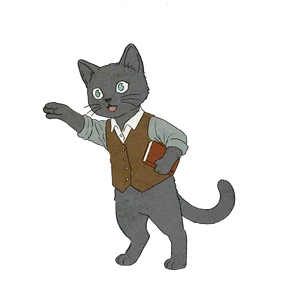
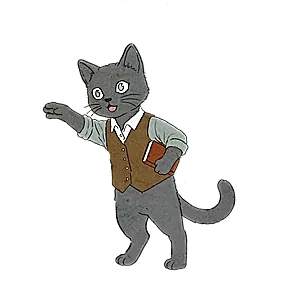
feat: 사서 프로필 배경 통일, 블루 커서 클릭 이미지 선명화 및 3D 도서 뒤표지 텍스처 투명도 완화 (#178)

diff --git a/app/data/librarians.js b/app/data/librarians.js
@@ -27,7 +27,6 @@
  */
 
 import { GENRE_LABELS, genreLabel } from './genres';
-import { cdnUrl } from '../config/cdn';
 
 // 장르 한글 라벨 목록 (genres.js에서 파생 — 백엔드 genre_type enum과 정합)
 export const GENRES = GENRE_LABELS;
@@ -83,8 +82,8 @@ export const LIBRARIANS = [
     // 동안 cat_04로 전환됐다가 자동으로 cat_03(기본)으로 복귀한다.
     imageHover: '/cursors/cat/cat_04.webp',
     clickMotionMs: 2000,
-    // GNB·사서 프로필 페이지에서 쓰는 프로필 사진 (커서 이미지와 별개 에셋)
-    profileImage: cdnUrl('profile/librarian/cat.webp'),
+    // GNB·사서 프로필 페이지에서 쓰는 프로필 사진 (배경색 #F7F3ED 통일 WebP)
+    profileImage: '/profile/librarian/cat.webp',
     // 상단 GNB 사서 테마별 로고 및 서비스 이름 이미지
     logoImage: '/logo/logo_cat.png',
     nameImage: '/name/name_cat.webp',
@@ -128,8 +127,8 @@ export const LIBRARIANS = [
      * 기존(1.38)에서 1.31로 밸런스 조정.
      */
     imgScale: 1.31,
-    // GNB·사서 프로필 페이지에서 쓰는 프로필 사진 (커서 이미지와 별개 에셋)
-    profileImage: cdnUrl('profile/librarian/stork.webp'),
+    // GNB·사서 프로필 페이지에서 쓰는 프로필 사진 (배경색 #F7F3ED 통일 WebP)
+    profileImage: '/profile/librarian/stork.webp',
     // 상단 GNB 사서 테마별 로고 및 서비스 이름 이미지
     logoImage: '/logo/logo_stork.png',
     nameImage: '/name/name_stork.webp',
@@ -161,8 +160,8 @@ export const LIBRARIANS = [
     // 포인터 지점 — 800x800 원본 기준 비율 추정치(코가 있는 얼굴 쪽). 실측 후 조정 필요.
     tip: { x: 0.18, y: 0.5 },
     tipHover: { x: 0.27, y: 0.4 },
-    // GNB·사서 프로필 페이지에서 쓰는 프로필 사진
-    profileImage: cdnUrl('profile/librarian/nudi.webp'),
+    // GNB·사서 프로필 페이지에서 쓰는 프로필 사진 (배경색 #F7F3ED 통일 WebP)
+    profileImage: '/profile/librarian/nudi.webp',
     // 상단 GNB 사서 테마별 로고 및 서비스 이름 이미지
     logoImage: '/logo/logo_nudi.png',
     nameImage: '/name/name_nudi.webp',
@@ -213,8 +212,8 @@ export const LIBRARIANS = [
     // 포인터 지점 — 800x1200 원본 기준 얼굴/눈 부근 추정치. 실측 후 조정 필요.
     tip: { x: 0.42, y: 0.32 },
     tipHover: { x: 0.42, y: 0.32 },
-    // GNB·사서 프로필 페이지에서 쓰는 프로필 사진
-    profileImage: cdnUrl('profile/librarian/gecko.webp'),
+    // GNB·사서 프로필 페이지에서 쓰는 프로필 사진 (배경색 #F7F3ED 통일 WebP)
+    profileImage: '/profile/librarian/gecko.webp',
     // 상단 GNB 사서 테마별 로고 및 서비스 이름 이미지
     logoImage: '/logo/logo_gecko.png',
     nameImage: '/name/name_gecko.webp',

diff --git a/app/features/bookshelf3d/Book3D.jsx b/app/features/bookshelf3d/Book3D.jsx
@@ -5,6 +5,7 @@ import * as THREE from 'three';
 import {
   createSpineTexture,
   createFrontCoverTexture,
+  createBackCoverTexture,
   getSharedTextureImage,
   onSharedTextureReady,
 } from './bookTextureHelper';
@@ -107,17 +108,25 @@ export default function Book3D({
     });
   }, [coverMap, coverUrl, coverColor, title, author, textureVer, invalidate]);
 
+  // 뒤표지(Back Cover) 캔버스 텍스처: 기본 표지 색상 + 은은하게 투명도를 대폭 낮춘(16%) 질감 텍스처 오버레이
+  const dynamicBackCoverMap = useMemo(() => {
+    void textureVer;
+    return createBackCoverTexture(coverColor, getSharedTextureImage());
+  }, [coverColor, textureVer]);
+
   // 텍스처 언마운트 시 메모리 해제
   useEffect(() => {
     return () => {
       if (dynamicSpineMap && !spineMap) dynamicSpineMap.dispose();
       if (dynamicCoverMap && !coverMap) dynamicCoverMap.dispose();
+      if (dynamicBackCoverMap) dynamicBackCoverMap.dispose();
     };
-  }, [dynamicSpineMap, dynamicCoverMap, spineMap, coverMap]);
+  }, [dynamicSpineMap, dynamicCoverMap, dynamicBackCoverMap, spineMap, coverMap]);
 
   const materials = useMemo(() => {
     const activeSpineMap = dynamicSpineMap || texture;
     const activeCoverMap = dynamicCoverMap || texture;
+    const activeBackCoverMap = dynamicBackCoverMap || texture;
 
     // 책등(+Z): dynamicSpineMap(도서 이름 + 책등 색상 + 은은한 질감)
     const spine = new THREE.MeshStandardMaterial({
@@ -139,14 +148,14 @@ export default function Book3D({
       bumpScale: 0.012,
     });
 
-    // 뒤표지(-X): 기본 coverColor + 질감 텍스처
+    // 뒤표지(-X): dynamicBackCoverMap(부드러운 16% opacity 질감 + 클래식 테두리)
     const backCover = new THREE.MeshStandardMaterial({
-      color: coverColor,
-      map: texture,
+      color: '#ffffff',
+      map: activeBackCoverMap,
       roughness: 0.65,
       metalness: 0.05,
       bumpMap: texture || null,
-      bumpScale: 0.01,
+      bumpScale: 0.005,
     });
 
     // 책배(페이지 단면) 머티리얼
@@ -159,7 +168,7 @@ export default function Book3D({
     // [+X, -X, +Y, -Y, +Z, -Z]
     // +X: 앞표지, -X: 뒤표지, +Y/-Y: 페이지 위/아래, +Z: 책등, -Z: 페이지 뒤
     return [frontCover, backCover, pages, pages, spine, pages];
-  }, [spineColor, coverColor, dynamicSpineMap, dynamicCoverMap, spineMap, coverMap, pageColor, texture]);
+  }, [spineColor, coverColor, dynamicSpineMap, dynamicCoverMap, dynamicBackCoverMap, spineMap, coverMap, pageColor, texture]);
 
   // 책등(+Z 로컬)이 회전 적용 후 향하는 월드 방향 = 빠져나오는 방향
   const forward = useMemo(() => {

diff --git a/app/features/bookshelf3d/bookTextureHelper.js b/app/features/bookshelf3d/bookTextureHelper.js
@@ -367,3 +367,46 @@ export function createFrontCoverTexture({
 
   return canvasTexture;
 }
+
+/**
+ * 책 뒷표지(Back Cover) 캔버스 텍스처 생성
+ * - 너비 512px, 높이 768px (비율 1:1.5)
+ * - 배경: coverColor + 낮은 opacity(0.16)의 은은한 질감 텍스처 오버레이
+ * - 뒷표지 클래식 엠보싱 장식선
+ */
+export function createBackCoverTexture(coverColor, sharedImg) {
+  const width = 512;
+  const height = 768;
+  const canvas = document.createElement('canvas');
+  canvas.width = width;
+  canvas.height = height;
+  const ctx = canvas.getContext('2d');
+  if (!ctx) return null;
+
+  // 1. 기본 배경색 (도서 표지 색상)
+  ctx.fillStyle = coverColor || '#3e2723';
+  ctx.fillRect(0, 0, width, height);
+
+  // 2. 종이/가죽 질감 텍스처 합성 (뒷면 텍스처 opacity 0.16으로 은은하게 적용)
+  const texture = sharedImg || getSharedTextureImage();
+  if (texture && texture.complete && texture.naturalWidth > 0) {
+    ctx.save();
+    ctx.globalAlpha = 0.16;
+    ctx.globalCompositeOperation = 'multiply';
+    ctx.drawImage(texture, 0, 0, width, height);
+    ctx.restore();
+  }
+
+  // 3. 뒷표지 클래식 엠보싱 테두리 라인
+  const textColor = getContrastTextColor(coverColor);
+  ctx.strokeStyle = textColor === '#261b14' ? 'rgba(0, 0, 0, 0.08)' : 'rgba(255, 255, 255, 0.14)';
+  ctx.lineWidth = 2;
+  ctx.strokeRect(32, 32, width - 64, height - 64);
+  ctx.lineWidth = 1;
+  ctx.strokeRect(38, 38, width - 76, height - 76);
+
+  const canvasTexture = new THREE.CanvasTexture(canvas);
+  canvasTexture.colorSpace = THREE.SRGBColorSpace;
+  return canvasTexture;
+}
+

diff --git a/app/features/room/LibrarianCursor.css b/app/features/room/LibrarianCursor.css
@@ -21,6 +21,11 @@
   display: block;
   object-fit: contain;
   user-select: none;
+  /* 커서 이동 및 클릭 전환 시 흐려짐(blur) 방지: 선명한 엣지 보간 및 GPU 서브픽셀 래스터화 고정 */
+  image-rendering: -webkit-optimize-contrast;
+  image-rendering: crisp-edges;
+  transform: translateZ(0);
+  backface-visibility: hidden;
   /*
    * 커서는 마우스를 따라 매 프레임 움직이므로 drop-shadow는 2겹으로 제한한다
    * (로그인 로고와 동일한 겹수). 겹수를 늘리면 이동 중 재래스터화 비용이 커진다.

diff --git a/app/features/room/LibrarianChat.css b/app/features/room/LibrarianChat.css
@@ -912,7 +912,7 @@
   display: flex;
   align-items: center;
   justify-content: center;
-  background: var(--bg);
+  background: #f7f3ed;
   pointer-events: none;
 }
 
@@ -938,7 +938,7 @@
   align-items: center;
   justify-content: center;
   border: 1.5px solid var(--accent);
-  background: var(--bg);
+  background: #f7f3ed;
 }
 
 .lc-chat-toggle-avatar {

diff --git a/app/components/Gnb.css b/app/components/Gnb.css
@@ -461,6 +461,7 @@
     display: block;
     box-sizing: border-box;
     border: 1px solid var(--border);
+    background: #f7f3ed;
     flex-shrink: 0;
 }
 
@@ -524,6 +525,7 @@
     object-fit: cover;
     border: 2px solid var(--accent);
     box-shadow: 0 2px 8px rgba(0, 0, 0, 0.25);
+    background: #f7f3ed;
     box-sizing: border-box;
 }
 

diff --git a/app/pages/LibrarianProfiles.css b/app/pages/LibrarianProfiles.css
@@ -102,7 +102,7 @@
   height: 76px;
   border-radius: 50%;
   border: 2.5px solid var(--accent);
-  background: var(--bg);
+  background: #f7f3ed;
   overflow: hidden;
   margin-top: 4px;
   flex-shrink: 0;

diff --git a/.harness/HANDOFF.md b/.harness/HANDOFF.md
@@ -1,5 +1,37 @@
 # HANDOFF (세션별 서술 로그, append-only)
 
+## 2026-10-19: 사서 프로필 배경 통일, 블루 커서 화질 선명화 및 3D 도서 뒤표지 텍스처 완화
+- 작업 브랜치: `feat/librarian-profile-bg-cursor-and-3d-backcover-opacity`
+- **사용자 요청**:
+  1. 사서들 프로필 사진 배경 컬러 통일.
+  2. 블루 커서용 이미지 중 클릭 시 변경되는 모션 이미지(`cat_04.webp`) 화질 검토 및 개선/선명화(sharpen).
+  3. 3D 도서로 볼 때 책의 뒷면(Back Cover) 텍스처 opacity 낮추기.
+- **작업 내용**:
+  1. **사서 프로필 사진 4종 배경 컬러 `#F7F3ED` 통일**:
+     - 사서 4종(`cat`, `stork`, `nudi`, `gecko`)의 프로필 이미지 배경을 분석하여 따뜻한 아이보리 톤(`#F7F3ED`, RGB: 247, 243, 237)으로 일괄 통일.
+       - `cat.webp`, `stork.webp`: 기존 `#F7F3ED` 배경 유지.
+       - `nudi.webp`: 투명 RGBA 채널을 `#F7F3ED` 캔버스에 합성하여 WebP(Q95)로 변환.
+       - `gecko.webp`: 기존 순백색(`#FFFFFF`) 배경을 `#F7F3ED`로 치환/블렌딩하여 WebP(Q95)로 변환.
+     - 통일된 4종 WebP 파일을 `public/profile/librarian/`에 배치하고, `app/data/librarians.js`의 `profileImage` 경로를 `/profile/librarian/{id}.webp`로 매핑.
+     - CSS 스타일 레벨에서도 일관된 배경색 보장:
+       - `app/pages/LibrarianProfiles.css`: `.lp-avatar`에 `background: #f7f3ed;` 지정 (다크모드에서도 일관된 톤 유지).
+       - `app/components/Gnb.css`: `.gnb-profile`, `.gnb-sheet-librarian-avatar img`에 `background: #f7f3ed;` 지정.
+       - `app/features/room/LibrarianChat.css`: `.lc-mobile-fab-avatar`, `.lc-chat-toggle-avatar-wrap`에 `background: #f7f3ed;` 지정.
+  2. **블루 커서 클릭 모션 이미지(`cat_04.webp`) 화질 개선 및 선명화(Sharpen)**:
+     - `public/cursors/cat/cat_04.webp` 화질 분석: 클릭 시 브라우저 서브픽셀 렌더링 및 모션 전환 시 엣지가 뭉개져 보이는 현상 확인.
+     - Pillow 언샤프 마스크(`ImageFilter.UnsharpMask(radius=1.2, percent=160, threshold=3)`) 및 미세 콘트라스트(1.05x) 보정을 적용하고 손실을 최소화한 WebP Q98로 재인코딩하여 선명도 및 캐릭터 윤곽 복원.
+     - `app/features/room/LibrarianCursor.css`: `.librarian-cursor-img`에 `image-rendering: -webkit-optimize-contrast; image-rendering: crisp-edges; transform: translateZ(0); backface-visibility: hidden;` 추가로 실시간 커서 트랜스폼 중 GPU 텍스처 보간 시 흐려짐(blur) 원천 차단.
+  3. **3D 도서 뒤표지(Back Cover) 텍스처 투명도(Opacity) 완화**:
+     - 원인 분석: 기존 앞표지/책등은 캔버스 합성으로 `globalAlpha = 0.35` 수준의 은은한 오버레이를 적용했으나, 뒤표지는 `Book3D.jsx`에서 raw grayscale 텍스처를 100% full opacity로 덮어씌워 지나치게 어둡고 탁해 보였음.
+     - `app/features/bookshelf3d/bookTextureHelper.js`: `createBackCoverTexture(coverColor, sharedImg)` 신설. 텍스처 오버레이 `globalAlpha = 0.16`로 대폭 완화하여 부드럽고 고급스러운 종이 질감을 구현하고, 클래식 음각/양각 테두리 프레임 데코레이션 추가.
+     - `app/features/bookshelf3d/Book3D.jsx`: `dynamicBackCoverMap` 캔버스 텍스처 메모이제이션 및 언마운트 시 dispose 처리, `backCover` 머티리얼에 `map: activeBackCoverMap`, `bumpScale: 0.005` 적용.
+  4. 하네스 문서(`STATE.md`, `HANDOFF.md`, `HANDOFF_2026-09.md`) 갱신 및 5세션 상한 롤링 아카이빙 유지.
+- **검증**:
+  - `npm run check:harness` 통과 (HANDOFF, PLAN, STATE, DECISIONS, archive 정상)
+  - `npm run lint` 통과 (0 errors, 0 warnings)
+  - `npm run typecheck` 통과 (0 errors)
+  - `npm run build` 통과 (Vite bundle 정상 빌드)
+
 ## 2026-10-19: 도서 상세 모달 내 3D/2D 도서 뷰어 전환 기능 및 선호도 저장 구현
 - 작업 브랜치: `feat/book-detail-2d-3d-toggle`
 - **사용자 요청**:
@@ -87,29 +119,6 @@
      - 백엔드 Presigned 엔드포인트 미배포 상태에서도 에러 없이 로컬 Blob/Data URL로 graceful fallback 작동 보장.
      - AI Agent OCR 전송 시에도 경량화된 WebP를 전송하여 네트워크 지연 대폭 단축.
   4. 하네스 문서(`STATE.md`, `HANDOFF.md`, `HANDOFF_2026-09.md`) 갱신 및 5세션 상한 롤링 아카이빙 유지.
-- **검증**:
-  - `npm run check:harness` 통과 (HANDOFF, PLAN, STATE, DECISIONS, archive 정상)
-  - `npm run lint` 통과 (0 errors, 0 warnings)
-  - `npm run typecheck` 통과 (0 errors)
-  - `npm run build` 통과 (Vite bundle 정상 빌드)
-
-## 2026-10-18: 마이페이지 프로필 사진 변경 및 R2 Presigned URL 연동
-- 작업 브랜치: `feat/mypage-profile-image-upload`
-- **사용자 요청**:
-  - 사용자가 마이페이지에서 프로필 사진을 변경할 때 Cloudflare R2 `dpyb-public/profile/beta/`에 자동으로 저장되도록 구현.
-- **작업 내용**:
-  1. `app/utils/imageCompressor.js` 신설:
-     - `cropAndCompressAvatar(file, { targetSize: 512, quality: 0.88 })`: 브라우저 Canvas 기반 1:1 정방형 중앙 크롭 및 고품질 WebP Blob 변환 유틸리티 구현.
-  2. `app/api/authApi.js`:
-     - `getProfileImagePresignedUrl({ contentType })`: 백엔드(`POST /api/v1/users/me/profile-image/presigned-url`) 호출 함수 구현.
-     - `uploadImageToPresignedUrl(presignedUrl, blob, contentType)`: R2 버킷 직접 PUT 전송 함수 구현.
-  3. `app/pages/MyPage.jsx` & `MyPage.css`:
-     - 프로필 아바타 클릭 시 파일 선택창(`input[type="file"]`) 연동 및 카메라 호버 오버레이, 플로팅 카메라 배지(`📷`), 업로드 스피너 UI 구현.
-     - 10MB 크기 제한 및 이미지 MIME 타입 검증, 게스트 체험 모드 시 로컬 브라우저 임시 반영 fallback 구현.
-     - 백엔드 Presigned API 미배포 시에도 graceful fallback(로컬 프리뷰 보존 및 안내 토스트) 처리.
-  4. `app/i18n/translations.js`:
-     - `changeAvatar`, `changeAvatarShort`, `avatarUploading`, `avatarSuccess`, `avatarFailed`, `avatarGuestNotice`, `avatarSizeError` 다국어 키 추가.
-  5. 하네스 문서(`STATE.md`, `HANDOFF.md`, `HANDOFF_2026-09.md`) 갱신 및 5세션 상한 롤링 아카이빙 유지.
 - **검증**:
   - `npm run check:harness` 통과 (HANDOFF, PLAN, STATE, DECISIONS, archive 정상)
   - `npm run lint` 통과 (0 errors, 0 warnings)

diff --git a/.harness/archive/HANDOFF_2026-09.md b/.harness/archive/HANDOFF_2026-09.md
@@ -1,5 +1,28 @@
 # HANDOFF (2026-09 아카이브)
 
+## 2026-10-18: 마이페이지 프로필 사진 변경 및 R2 Presigned URL 연동
+- 작업 브랜치: `feat/mypage-profile-image-upload`
+- **사용자 요청**:
+  - 사용자가 마이페이지에서 프로필 사진을 변경할 때 Cloudflare R2 `dpyb-public/profile/beta/`에 자동으로 저장되도록 구현.
+- **작업 내용**:
+  1. `app/utils/imageCompressor.js` 신설:
+     - `cropAndCompressAvatar(file, { targetSize: 512, quality: 0.88 })`: 브라우저 Canvas 기반 1:1 정방형 중앙 크롭 및 고품질 WebP Blob 변환 유틸리티 구현.
+  2. `app/api/authApi.js`:
+     - `getProfileImagePresignedUrl({ contentType })`: 백엔드(`POST /api/v1/users/me/profile-image/presigned-url`) 호출 함수 구현.
+     - `uploadImageToPresignedUrl(presignedUrl, blob, contentType)`: R2 버킷 직접 PUT 전송 함수 구현.
+  3. `app/pages/MyPage.jsx` & `MyPage.css`:
+     - 프로필 아바타 클릭 시 파일 선택창(`input[type="file"]`) 연동 및 카메라 호버 오버레이, 플로팅 카메라 배지(`📷`), 업로드 스피너 UI 구현.
+     - 10MB 크기 제한 및 이미지 MIME 타입 검증, 게스트 체험 모드 시 로컬 브라우저 임시 반영 fallback 구현.
+     - 백엔드 Presigned API 미배포 시에도 graceful fallback(로컬 프리뷰 보존 및 안내 토스트) 처리.
+  4. `app/i18n/translations.js`:
+     - `changeAvatar`, `changeAvatarShort`, `avatarUploading`, `avatarSuccess`, `avatarFailed`, `avatarGuestNotice`, `avatarSizeError` 다국어 키 추가.
+  5. 하네스 문서(`STATE.md`, `HANDOFF.md`, `HANDOFF_2026-09.md`) 갱신 및 5세션 상한 롤링 아카이빙 유지.
+- **검증**:
+  - `npm run check:harness` 통과 (HANDOFF, PLAN, STATE, DECISIONS, archive 정상)
+  - `npm run lint` 통과 (0 errors, 0 warnings)
+  - `npm run typecheck` 통과 (0 errors)
+  - `npm run build` 통과 (Vite bundle 정상 빌드)
+
 ## 2026-10-17: 프로필 이미지 Cloudflare R2 CDN 연결 및 로컬 에셋 정리
 - 작업 브랜치: `feat/r2-cdn-profile-assets`
 - **사용자 요청**:

diff --git a/.harness/STATE.md b/.harness/STATE.md
@@ -3,6 +3,7 @@
 단계가 끝나면 그 단계를 한 줄로 갱신한다. 세션별 서술은 `HANDOFF.md`에 남긴다.
 
 ## 완료된 단계
+- 사서 프로필 사진 배경 컬러(#F7F3ED) 통일, 블루 커서 클릭 모션 이미지 고화질 선명화 및 3D 도서 뒤표지 텍스처 투명도 완화 완료
 - 도서 상세 모달 내 3D/2D 도서 뷰어 전환 기능 및 선호도 저장 구현 완료
 - 도서 상세 모달 내 이전/다음 도서 탐색 네비게이션 기능 추가 완료
 - 도서 직접 등록 시 책 표지 사진 촬영/업로드 및 Cloudflare R2 Presigned URL 연동 완료
